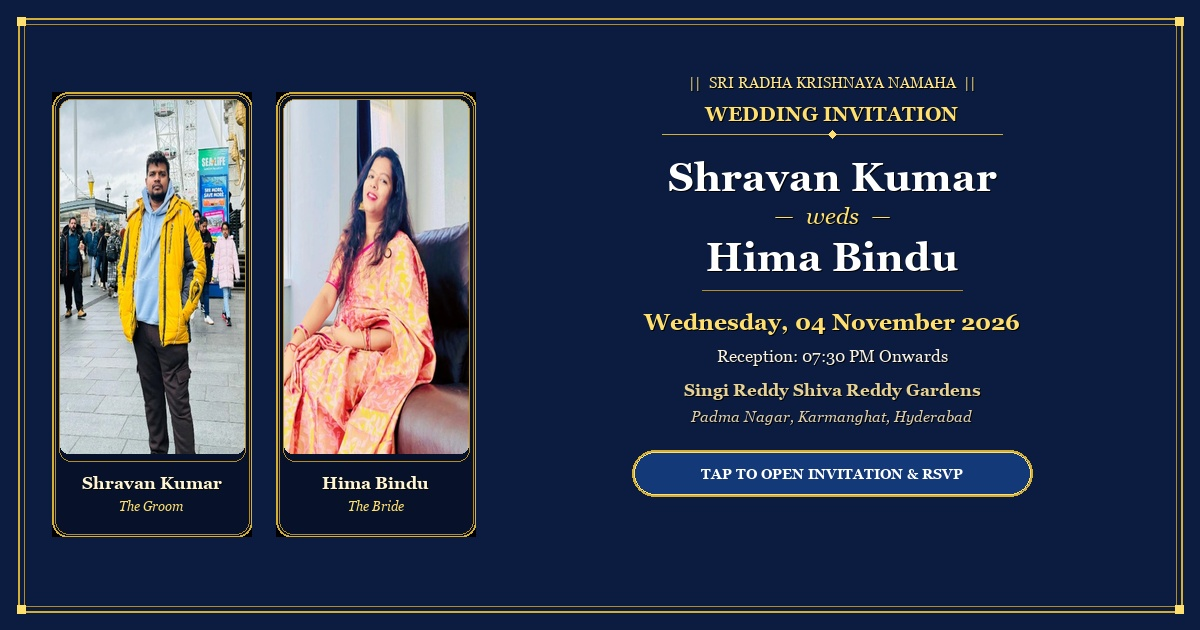
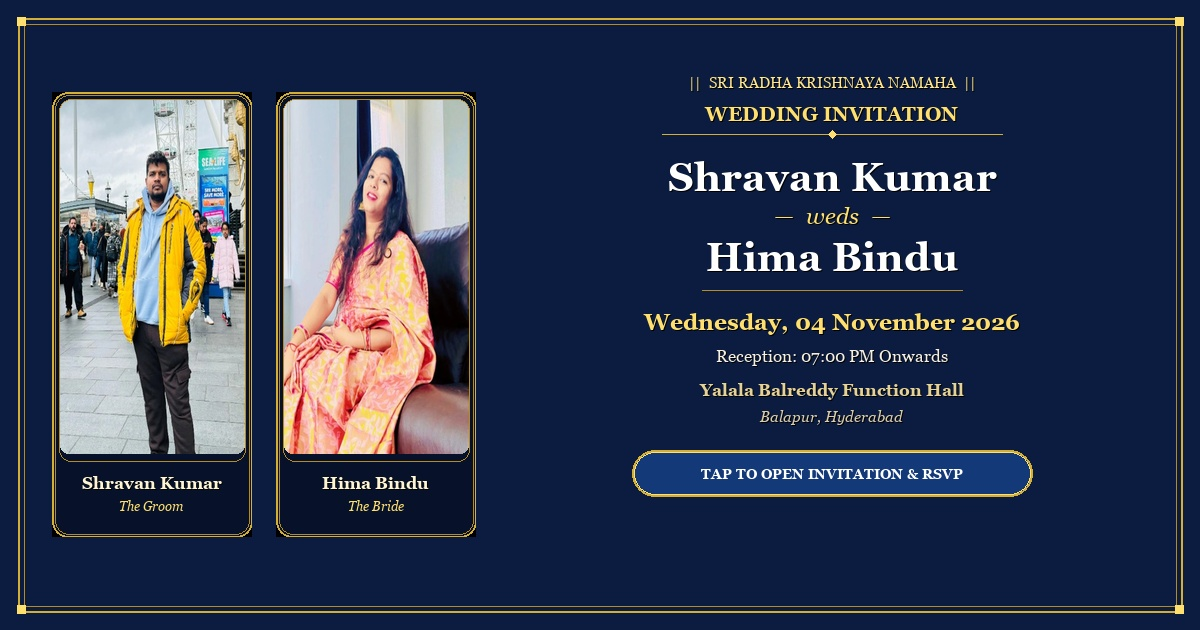
Update Reception to 7:00 PM Onwards at Yalala Balreddy Function Hall Balapur, fix card text size and layout

Changed region(s): [[0.555, 0.6032, 0.8325, 0.6937], [0.5858, 0.5429, 0.7092, 0.573]]

diff --git a/index.html b/index.html
@@ -4,7 +4,7 @@
   <meta charset="UTF-8">
   <meta name="viewport" content="width=device-width, initial-scale=1.0, maximum-scale=1.0, user-scalable=no">
   <title>Shravan Kumar &amp; Hima Bindu | Wedding Celebration</title>
-  <meta name="description" content="Together with their families, Anuradha &amp; Mohan Koramaina and Kalavathi &amp; Sesha Chary cordially invite you to celebrate the wedding reception of Shravan Kumar &amp; Hima Bindu on Wednesday, 04 November 2026 from 07:30 PM onwards at Singi Reddy Shiva Reddy Gardens, Karmanghat. Tap to view the invitation and RSVP.">
+  <meta name="description" content="Together with their families, Anuradha &amp; Mohan Koramaina and Kalavathi &amp; Sesha Chary cordially invite you to celebrate the wedding reception of Shravan Kumar &amp; Hima Bindu on Wednesday, 04 November 2026 from 07:00 PM onwards at Yalala Balreddy Function Hall, Balapur, Hyderabad. Tap to view the invitation and RSVP.">
 
   <!-- OpenGraph / Facebook / WhatsApp Social Share Meta -->
   <meta property="og:type" content="website" />
@@ -13,24 +13,24 @@
   <meta property="og:title" content="Shravan weds Hima Bindu — Wedding Invitation 💍" />
   <meta
     property="og:description"
-    content="Together with their families, Anuradha &amp; Mohan Koramaina and Kalavathi &amp; Sesha Chary cordially invite you to celebrate the wedding reception of Shravan Kumar &amp; Hima Bindu on Wednesday, 04 November 2026 from 07:30 PM onwards at Singi Reddy Shiva Reddy Gardens, Karmanghat. Tap to view the invitation and RSVP."
+    content="Together with their families, Anuradha &amp; Mohan Koramaina and Kalavathi &amp; Sesha Chary cordially invite you to celebrate the wedding reception of Shravan Kumar &amp; Hima Bindu on Wednesday, 04 November 2026 from 07:00 PM onwards at Yalala Balreddy Function Hall, Balapur, Hyderabad. Tap to view the invitation and RSVP."
   />
-  <meta property="og:image" content="https://shravan-weds-anuradha.vercel.app/assets/shravan-hima-wedding-share.jpg?v=9" />
-  <meta property="og:image:secure_url" content="https://shravan-weds-anuradha.vercel.app/assets/shravan-hima-wedding-share.jpg?v=9" />
+  <meta property="og:image" content="https://shravan-weds-anuradha.vercel.app/assets/shravan-hima-wedding-share.jpg?v=10" />
+  <meta property="og:image:secure_url" content="https://shravan-weds-anuradha.vercel.app/assets/shravan-hima-wedding-share.jpg?v=10" />
   <meta property="og:image:type" content="image/jpeg" />
   <meta property="og:image:width" content="1200" />
   <meta property="og:image:height" content="630" />
   <meta property="og:image:alt" content="Shravan Kumar &amp; Hima Bindu Wedding Invitation" />
-  <link rel="image_src" href="https://shravan-weds-anuradha.vercel.app/assets/shravan-hima-wedding-share.jpg?v=9" />
+  <link rel="image_src" href="https://shravan-weds-anuradha.vercel.app/assets/shravan-hima-wedding-share.jpg?v=10" />
 
   <!-- Twitter Card Meta -->
   <meta name="twitter:card" content="summary_large_image" />
   <meta name="twitter:title" content="Shravan weds Hima Bindu — Wedding Invitation 💍" />
   <meta
     name="twitter:description"
-    content="Together with their families, Anuradha &amp; Mohan Koramaina and Kalavathi &amp; Sesha Chary cordially invite you to celebrate the wedding reception of Shravan Kumar &amp; Hima Bindu on Wednesday, 04 November 2026 from 07:30 PM onwards at Singi Reddy Shiva Reddy Gardens, Karmanghat. Tap to view the invitation and RSVP."
+    content="Together with their families, Anuradha &amp; Mohan Koramaina and Kalavathi &amp; Sesha Chary cordially invite you to celebrate the wedding reception of Shravan Kumar &amp; Hima Bindu on Wednesday, 04 November 2026 from 07:00 PM onwards at Yalala Balreddy Function Hall, Balapur, Hyderabad. Tap to view the invitation and RSVP."
   />
-  <meta name="twitter:image" content="https://shravan-weds-anuradha.vercel.app/assets/shravan-hima-wedding-share.jpg?v=9" />
+  <meta name="twitter:image" content="https://shravan-weds-anuradha.vercel.app/assets/shravan-hima-wedding-share.jpg?v=10" />
 
   <!-- Google Fonts: Luxury Serif, Romantic Script & Classic Lettering -->
   <link rel="preconnect" href="https://fonts.googleapis.com">
@@ -410,10 +410,10 @@
           <div class="event-summary-action-bar">
             <div class="event-meta-summary-pills">
               <span class="event-meta-pill">
-                <i data-lucide="clock" class="pill-icon"></i> 07:30 PM Onwards
+                <i data-lucide="clock" class="pill-icon"></i> 07:00 PM Onwards
               </span>
               <span class="event-meta-pill">
-                <i data-lucide="map-pin" class="pill-icon"></i> Karmanghat, Hyderabad
+                <i data-lucide="map-pin" class="pill-icon"></i> Balapur, Hyderabad
               </span>
             </div>
 
@@ -461,7 +461,7 @@
           <div class="modal-muhurtham-box">
             <div class="modal-muhurtham-tag">WEDDING RECEPTION</div>
             <div class="modal-muhurtham-date">Wednesday, 04th November 2026</div>
-            <div class="modal-muhurtham-time">Reception at 07:30 PM Onwards</div>
+            <div class="modal-muhurtham-time">Reception at 07:00 PM Onwards</div>
           </div>
 
           <!-- Venue & Directions Section -->
@@ -470,15 +470,15 @@
               <i data-lucide="map-pin" class="sec-icon"></i> Venue &amp; Directions
             </h4>
             <div class="modal-venue-card">
-              <h5 class="venue-title">Singi Reddy Shiva Reddy Gardens</h5>
-              <p class="venue-addr">Padma Nagar Colony, Karmanghat, Telangana - 500097</p>
-              <p class="venue-landmark"><em>(Beside Karmanghat Hanuman Temple)</em></p>
+              <h5 class="venue-title">Yalala Balreddy Function Hall</h5>
+              <p class="venue-addr">Yelmati Nagar, Balapur, Hyderabad, Telangana - 500005</p>
+              <p class="venue-landmark"><em>(Balapur, Hyderabad)</em></p>
             </div>
 
             <!-- Action Buttons -->
             <div class="modal-action-buttons">
               <a 
-                href="https://www.google.com/maps/search/?api=1&query=Singi+Reddy+Shiva+Reddy+Gardens+Karmanghat+Telangana" 
+                href="https://www.google.com/maps/search/?api=1&query=Yalala+Balreddy+Garden+Balapur+Hyderabad" 
                 target="_blank" 
                 rel="noopener noreferrer" 
                 class="btn-modal-action btn-maps"
@@ -525,11 +525,11 @@
           <div class="venue-icon-circle">
             <i data-lucide="map-pin" class="venue-pin-icon"></i>
           </div>
-          <h3 class="venue-name">Singi Reddy Shiva Reddy Gardens</h3>
-          <p class="venue-subname">Padma Nagar Colony, Karmanghat, Telangana (Beside Karmanghat Hanuman Temple) - 500097</p>
+          <h3 class="venue-name">Yalala Balreddy Function Hall</h3>
+          <p class="venue-subname">Yelmati Nagar, Balapur, Hyderabad, Telangana - 500005</p>
           <div class="venue-meta-row">
             <span><i data-lucide="calendar"></i> Wednesday, 04 Nov 2026</span>
-            <span><i data-lucide="clock"></i> Reception: 07:30 PM Onwards</span>
+            <span><i data-lucide="clock"></i> Reception: 07:00 PM Onwards</span>
           </div>
         </div>
 
@@ -537,7 +537,7 @@
         <div class="venue-map-frame">
           <iframe
             title="Google Maps Location for Wedding Venue"
-            src="https://maps.google.com/maps?q=Singi+Reddy+Shiva+Reddy+Gardens+Karmanghat+Telangana&t=&z=15&ie=UTF8&iwloc=&output=embed"
+            src="https://maps.google.com/maps?q=Yalala+Balreddy+Garden+Balapur+Hyderabad&t=&z=15&ie=UTF8&iwloc=&output=embed"
             width="100%"
             height="220"
             style="border:0;"
@@ -549,7 +549,7 @@
 
         <div class="venue-actions">
           <a
-            href="https://www.google.com/maps/search/?api=1&query=Singi+Reddy+Shiva+Reddy+Gardens+Karmanghat+Telangana"
+            href="https://www.google.com/maps/search/?api=1&query=Yalala+Balreddy+Garden+Balapur+Hyderabad"
             target="_blank"
             rel="noopener noreferrer"
             class="venue-directions-btn"
@@ -618,7 +618,7 @@
               <div class="form-field">
                 <label>Events Attending</label>
                 <div class="event-checkboxes">
-                  <label><input type="checkbox" name="events" value="Wedding Reception" checked /> Wedding Reception (07:30 PM)</label>
+                  <label><input type="checkbox" name="events" value="Wedding Reception" checked /> Wedding Reception (07:00 PM)</label>
                 </div>
               </div>
             </div>

diff --git a/style.css b/style.css
@@ -979,18 +979,22 @@ button {
   flex-direction: column;
   overflow: visible;
   padding-bottom: 10px;
+  width: 100%;
+  max-width: 580px;
+  margin: 0 auto;
 }
 
 /* Single Grand Wedding Card Container */
 .event-single-card {
   position: relative;
   background: #ffffff;
-  border-radius: 20px;
+  border-radius: 22px;
   overflow: hidden;
-  box-shadow: 0 14px 34px rgba(19, 57, 121, 0.12), 0 2px 8px rgba(0, 0, 0, 0.04);
-  border: 1.5px solid rgba(19, 57, 121, 0.12);
+  box-shadow: 0 16px 38px rgba(19, 57, 121, 0.14), 0 3px 10px rgba(0, 0, 0, 0.05);
+  border: 1.5px solid rgba(19, 57, 121, 0.14);
   cursor: pointer;
   transition: transform 0.3s cubic-bezier(0.16, 1, 0.3, 1), box-shadow 0.3s ease;
+  width: 100%;
 }
 
 .event-single-card:hover {
@@ -1034,8 +1038,17 @@ button {
 }
 
 .overlay-right {
-  right: 5%;
-  width: 52%;
+  right: 7%;
+  width: 36%;
+  top: 10%;
+  height: 80%;
+  display: flex;
+  flex-direction: column;
+  justify-content: center;
+  align-items: center;
+  text-align: center;
+  padding: 0 4px;
+  box-sizing: border-box;
 }
 
 .overlay-left {
@@ -1075,14 +1088,16 @@ button {
   color: #d4af37;
 }
 
-/* Event Titles & Dates */
+/* Event Titles & Dates - Smaller size so Reception fits perfectly inside ornate frame */
 .event-custom-title {
   font-family: 'Playfair Display', Georgia, serif;
-  font-size: 2.1rem;
-  font-weight: 500;
-  line-height: 1.1;
+  font-size: 1.25rem;
+  font-weight: 600;
+  line-height: 1.15;
   margin: 0;
   letter-spacing: 0.5px;
+  white-space: nowrap;
+  max-width: 95%;
 }
 
 .title-wedding {
@@ -1091,10 +1106,11 @@ button {
 
 .event-custom-date {
   font-family: 'Playfair Display', Georgia, serif;
-  font-size: 1.15rem;
+  font-size: 0.82rem;
   font-weight: 500;
   margin-top: 3px;
-  letter-spacing: 1px;
+  letter-spacing: 0.8px;
+  white-space: nowrap;
 }
 
 .date-wedding {
@@ -1506,10 +1522,28 @@ body.modal-open {
 
 @media (min-width: 420px) {
   .event-custom-title {
-    font-size: 2.5rem;
+    font-size: 1.45rem;
   }
   .event-custom-date {
-    font-size: 1.3rem;
+    font-size: 0.92rem;
+  }
+}
+
+@media (min-width: 600px) {
+  .event-custom-title {
+    font-size: 1.65rem;
+  }
+  .event-custom-date {
+    font-size: 1.05rem;
+  }
+}
+
+@media (max-width: 360px) {
+  .event-custom-title {
+    font-size: 1.1rem;
+  }
+  .event-custom-date {
+    font-size: 0.72rem;
   }
 }
 

diff --git a/script.js b/script.js
@@ -202,7 +202,7 @@ function initScrollAnimations() {
    3. LIVE WEDDING COUNTDOWN TIMER (01 NOVEMBER 2026)
    ========================================================================== */
 function initWeddingCountdown() {
-  const targetDate = new Date('2026-11-04T19:30:00+05:30').getTime();
+  const targetDate = new Date('2026-11-04T19:00:00+05:30').getTime();
 
   const elDays = document.getElementById('cd-days');
   const elHours = document.getElementById('cd-hours');
@@ -681,9 +681,9 @@ function initEventDetailsModal() {
 function addToGoogleCalendar() {
   const title = encodeURIComponent("Wedding Reception: Shravan Kumar & Hima Bindu");
   const details = encodeURIComponent("Wedding Reception of Shravan Kumar & Hima Bindu with the divine blessings of Radha Krishna.");
-  const location = encodeURIComponent("Singi Reddy Shiva Reddy Gardens, Padma Nagar Colony, Karmanghat, Telangana - 500097");
-  // 04 Nov 2026 19:30 IST to 23:30 IST -> 14:00 UTC to 18:00 UTC
-  const dates = "20261104T140000Z/20261104T180000Z";
+  const location = encodeURIComponent("Yalala Balreddy Function Hall, Yelmati Nagar, Balapur, Hyderabad, Telangana - 500005");
+  // 04 Nov 2026 19:00 IST to 23:00 IST -> 13:30 UTC to 17:30 UTC
+  const dates = "20261104T133000Z/20261104T173000Z";
   const gCalUrl = `https://calendar.google.com/calendar/render?action=TEMPLATE&text=${title}&dates=${dates}&details=${details}&location=${location}`;
   window.open(gCalUrl, '_blank');
 }
@@ -806,8 +806,8 @@ function shareOnWhatsApp() {
   const groomParents = 'Anuradha & Mohan Koramaina';
   const brideParents = 'Kalavathi & Sesha Chary';
   const date = 'Wednesday, 04 November 2026';
-  const reception = '07:30 PM Onwards';
-  const venue = 'Singi Reddy Shiva Reddy Gardens, Padma Nagar Colony, Karmanghat, Telangana (Beside Karmanghat Hanuman Temple) - 500097';
+  const reception = '07:00 PM Onwards';
+  const venue = 'Yalala Balreddy Function Hall, Yelmati Nagar, Balapur, Hyderabad, Telangana - 500005';
   const link = 'https://shravan-weds-anuradha.vercel.app';
 
   const msg = `॥ श्री राधाकृष्णाभ्यां नमः ॥\n\n` +

diff --git a/generate_metadata_banner.py b/generate_metadata_banner.py
@@ -103,9 +103,9 @@ def generate_banners():
     draw.line([(center_x - 130, 290), (center_x + 130, 290)], fill=deep_gold, width=1)
 
     draw_c('Wednesday, 04 November 2026', 308, f_date, bright_gold)
-    draw_c('Reception: 07:30 PM Onwards', 346, f_time, (245, 240, 225))
-    draw_c('Singi Reddy Shiva Reddy Gardens', 380, f_venue_bold, (230, 210, 150))
-    draw_c('Padma Nagar, Karmanghat, Hyderabad', 408, f_venue, (220, 205, 170))
+    draw_c('Reception: 07:00 PM Onwards', 346, f_time, (245, 240, 225))
+    draw_c('Yalala Balreddy Function Hall', 380, f_venue_bold, (230, 210, 150))
+    draw_c('Balapur, Hyderabad', 408, f_venue, (220, 205, 170))
 
     btn_w = 400
     btn_h = 46
